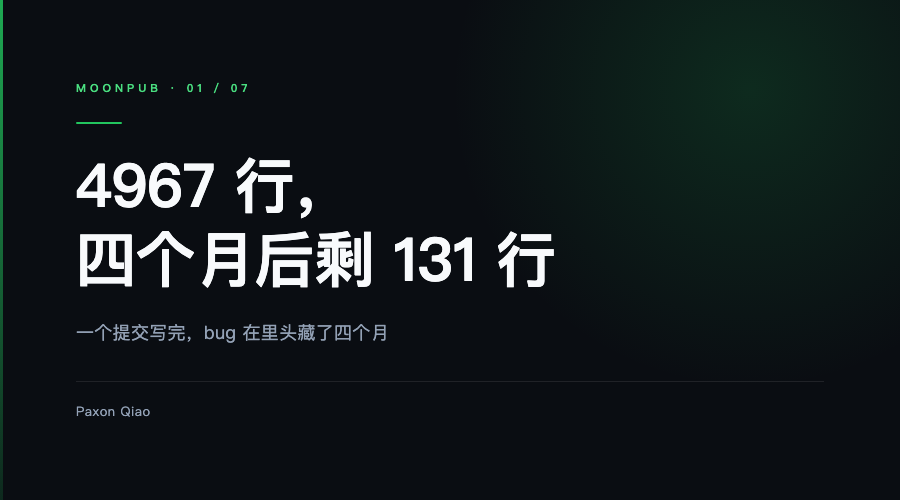
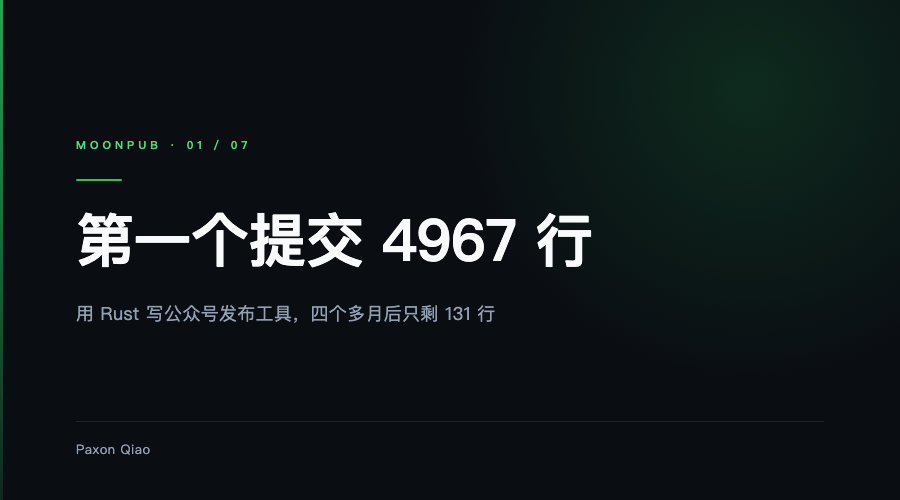
style(cover): geek-black 作者行改为底部绝对定位，避免压住标题区
render_geek_black_cover 把 .meta 从普通流移到 absolute 底部，
左/右边距对齐标题，不再随副标题长度上移盖住主标题。

diff --git a/src/cover.rs b/src/cover.rs
@@ -763,7 +763,7 @@ body{{width:900px;height:500px;overflow:hidden;font-family:-apple-system,'PingFa
 .rule{{width:46px;height:2px;background:#22c55e;border-radius:2px;margin-bottom:24px}}
 .title{{font-size:{title_size}px;font-weight:800;line-height:1.24;color:#f8fafc;letter-spacing:-.5px;margin-bottom:22px}}
 .subtitle{{font-size:{subtitle_size}px;color:#93a1b5;line-height:1.62;letter-spacing:.3px;margin-bottom:34px;max-width:640px}}
-.meta{{display:flex;align-items:center;gap:14px;color:#64748b;font-size:13px;letter-spacing:.5px;padding-top:20px;border-top:1px solid rgba(255,255,255,.09)}}
+.meta{{position:absolute;left:76px;right:76px;bottom:42px;display:flex;align-items:center;gap:14px;color:#64748b;font-size:13px;letter-spacing:.5px;padding-top:18px;border-top:1px solid rgba(255,255,255,.09)}}
 .chip{{border:1px solid rgba(34,197,94,.3);border-radius:3px;padding:4px 10px;color:#4ade80;font-size:11px;font-weight:600;letter-spacing:1.5px}}
 .author{{color:#94a3b8}}
 </style>
@@ -776,8 +776,8 @@ body{{width:900px;height:500px;overflow:hidden;font-family:-apple-system,'PingFa
     <div class="rule"></div>
     <h1 class="title">{title_html}</h1>
     <p class="subtitle">{subtitle}</p>
-    <div class="meta">{chip}<span class="author">{author}</span></div>
   </section>
+  <div class="meta">{chip}<span class="author">{author}</span></div>
 </main>
 </body>
 </html>"#
